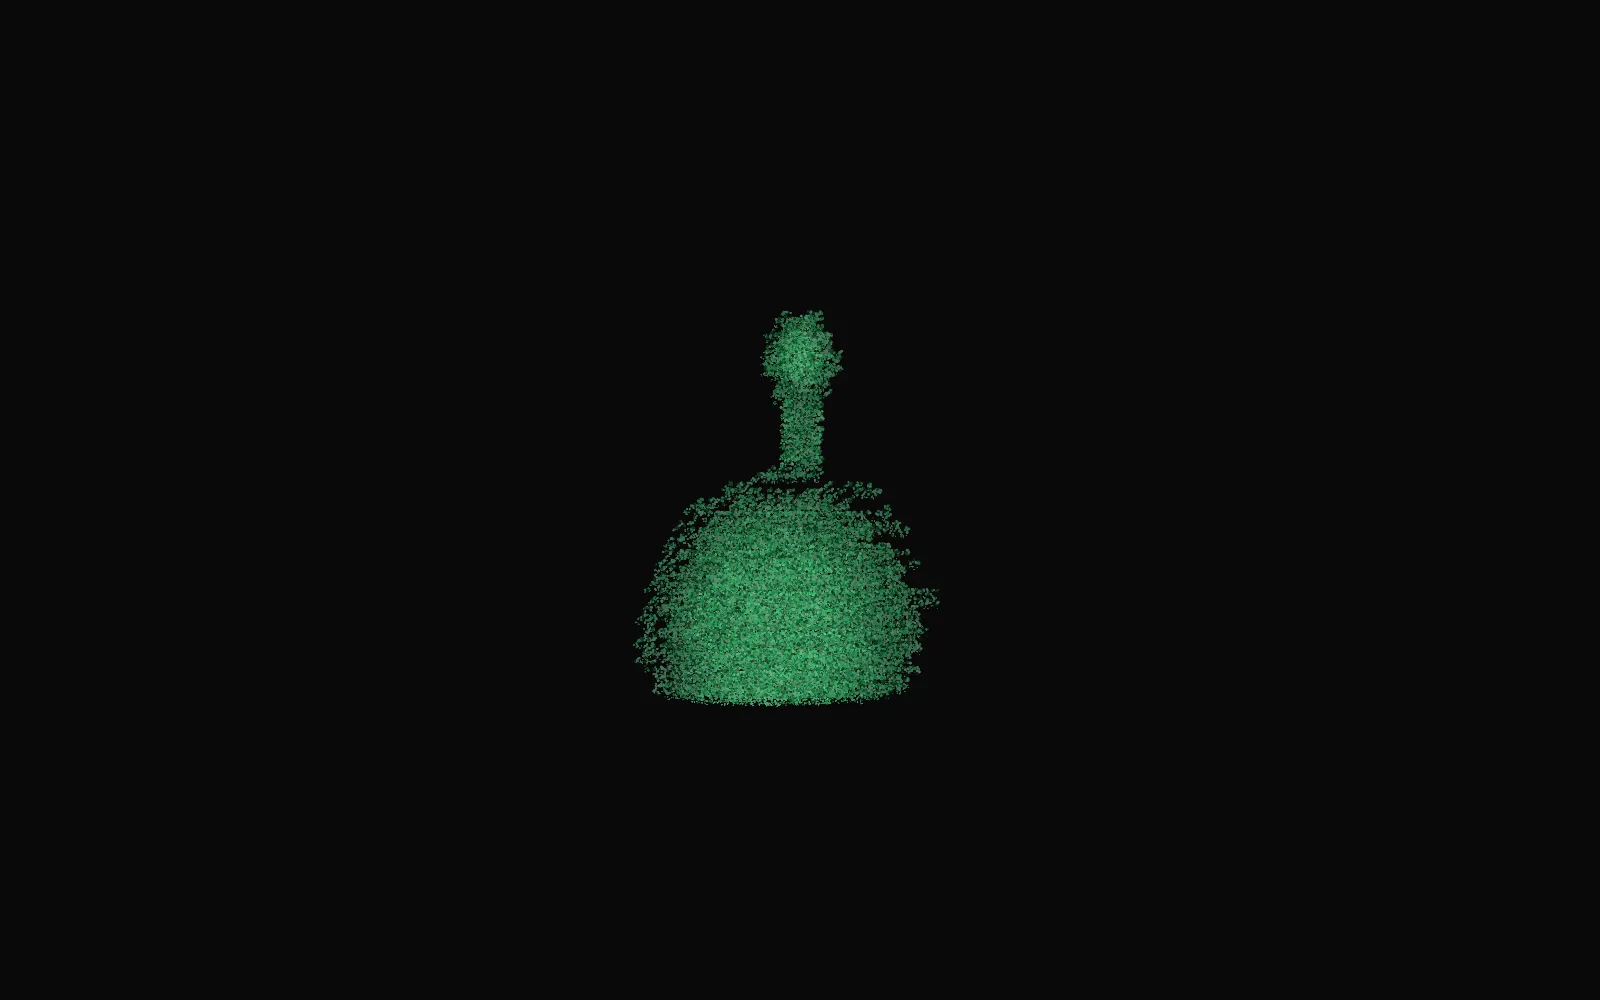
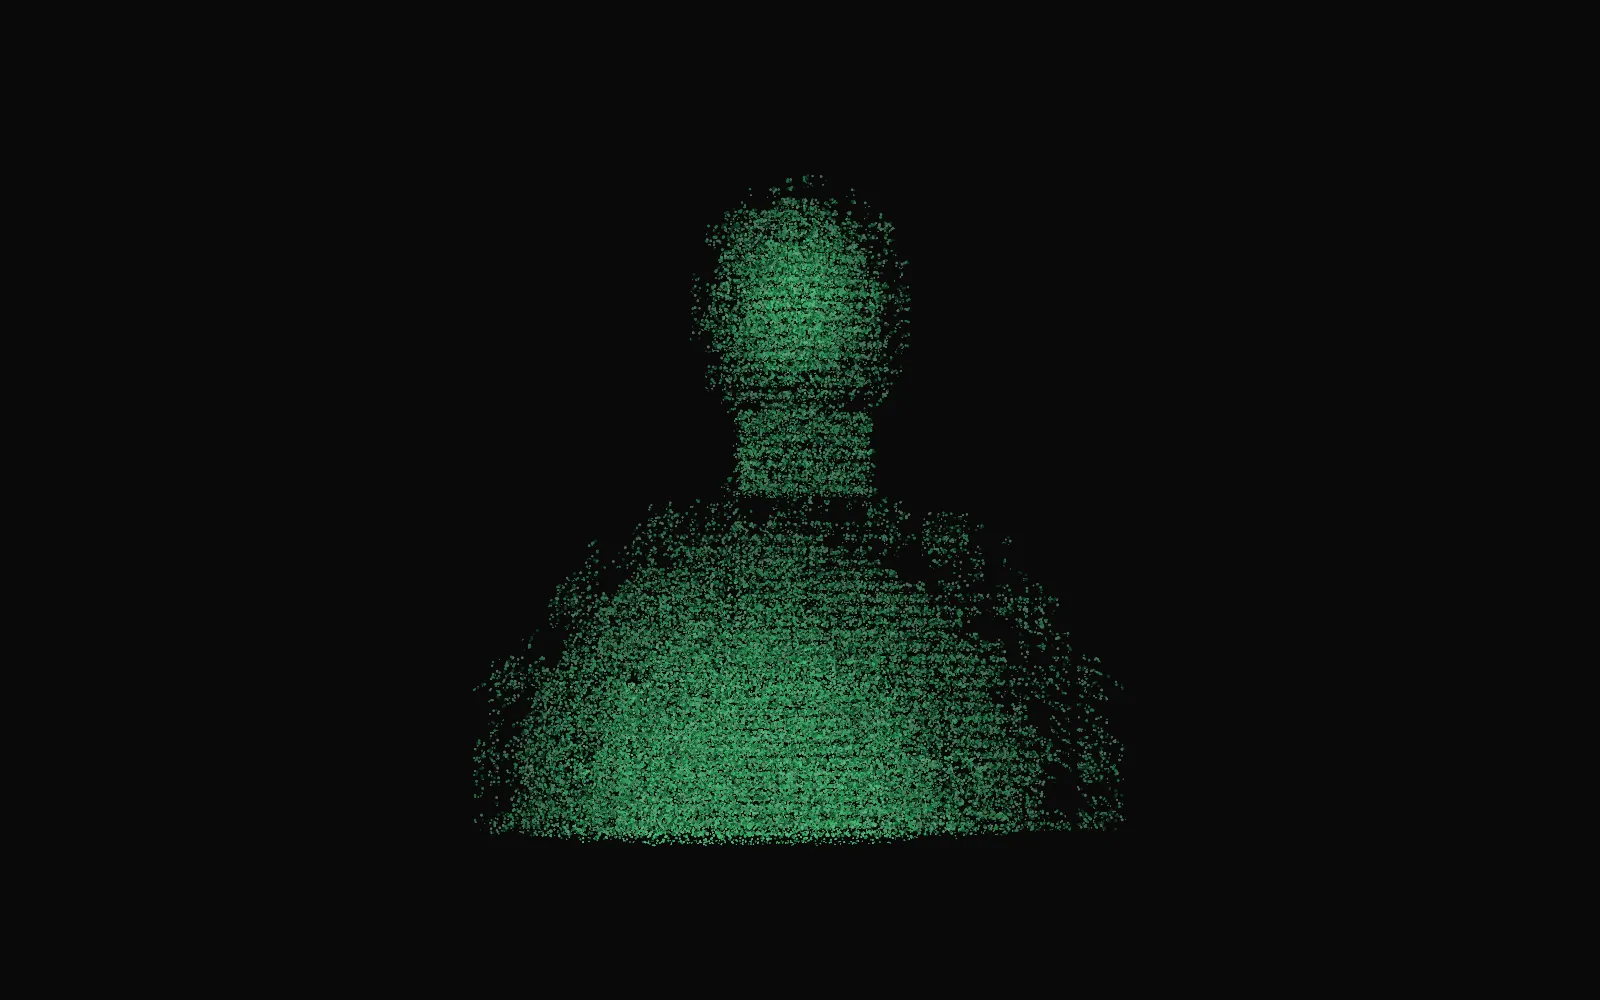
fix: reframe the ASCII Mirror cover as a square portrait bust

Changed region(s): [[0.2812, 0.186, 0.7188, 0.868]]

diff --git a/tools/covers/ascii.html b/tools/covers/ascii.html
@@ -2,7 +2,7 @@
 <meta charset="utf-8">
 <title>ASCII Mirror cover</title>
 <style>html, body { margin: 0; background: #020604; } canvas { display: block; }</style>
-<canvas width="1600" height="1000"></canvas>
+<canvas width="1000" height="1000"></canvas>
 <script>
   const canvas = document.querySelector('canvas');
   const g = canvas.getContext('2d');
@@ -12,10 +12,10 @@
   const clamp = (v) => Math.max(0, Math.min(1, v));
   // A head-and-shoulders silhouette lit from the left, in square coordinates (0..1).
   function figure(u, v) {
-    const head = 1 - Math.hypot((u - 0.5) / 0.085, (v - 0.3) / 0.115);
-    const neck = Math.abs(u - 0.5) < 0.04 && v > 0.39 && v < 0.52 ? 0.6 : 0;
-    const body = 1 - Math.hypot((u - 0.5) / 0.34, (v - 0.86) / 0.36); // rounded shoulders, top near v = 0.50
-    const light = 0.55 + 0.45 * clamp(1 - (u - 0.36) / 0.34);         // lit from the left
+    const head = 1 - Math.hypot((u - 0.5) / 0.16, (v - 0.30) / 0.19);
+    const neck = Math.abs(u - 0.5) < 0.09 && v > 0.44 && v < 0.56 ? 0.6 : 0;
+    const body = 1 - Math.hypot((u - 0.5) / 0.47, (v - 0.98) / 0.48); // shoulders start near v = 0.50
+    const light = 0.55 + 0.45 * clamp(1 - (u - 0.34) / 0.36);         // lit from the left
     return clamp(Math.max(head * 1.4, neck, body * 1.6) * light);
   }
   const cell = 16, cw = cell * 0.62;
@@ -26,7 +26,7 @@
   for (let y = 0; y < canvas.height / cell; y++) {
     for (let x = 0; x < canvas.width / cw; x++) {
       const u = (x * cw) / canvas.width, v = (y * cell) / canvas.height;
-      const b = clamp(Math.pow(figure(u * 1.6 - 0.3, v), 0.7) + (rand() - 0.5) * 0.12);
+      const b = clamp(Math.pow(figure(u, v), 0.7) + (rand() - 0.5) * 0.12);
       if (b < 0.06) continue;
       const ch = RAMP[Math.min(RAMP.length - 1, Math.floor(b * RAMP.length))];
       if (ch === ' ') continue;
